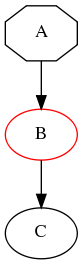
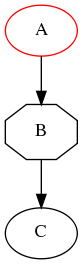
reStructuredText include doesn't seem to work on github

diff --git a/src/main/java/org/wintersleep/graphviz/ENGCAttributeList.java b/src/main/java/org/wintersleep/graphviz/ENGCAttributeList.java
@@ -36,7 +36,7 @@ public class ENGCAttributeList<T extends ENGCAttributeList> extends AttributeLis
     }
 
     public T setFontColor(Color fontColor) {
-        return setColor("fontcolor", fontColor);
+        return _setColor("fontcolor", fontColor);
     }
 
     public T setFontSize(double fontSize) {
@@ -54,6 +54,14 @@ public class ENGCAttributeList<T extends ENGCAttributeList> extends AttributeLis
         String str = table.xmlText(options);
 
         return setUnquoted("label", "<" + str + ">");
+    }
+
+    public T setColor(String color) {
+        return setUnquoted("color", color);
+    }
+
+    public T setColor(Color color) {
+        return _setColor("color", color);
     }
 
 }

diff --git a/src/test/java/org/wintersleep/graphviz/Example.java b/src/test/java/org/wintersleep/graphviz/Example.java
@@ -20,6 +20,7 @@ package org.wintersleep.graphviz;
  * #L%
  */
 
+import java.awt.*;
 import java.io.File;
 import java.io.IOException;
 
@@ -40,11 +41,11 @@ public class Example {
 
         // set attribute using a type-safe setter:
         a.addAttributeList()
-                .setShape("octagon");
+                .setColor(Color.RED);
 
         // set attribute using a generic string option:
         b.addAttributeList()
-                .setUnquoted("color", "red");
+                .setUnquoted("shape", "octagon");
 
         File outputDir = new File("/tmp");
         g.makeImageFile(outputDir, "png");

diff --git a/src/main/java/org/wintersleep/graphviz/AttributeList.java b/src/main/java/org/wintersleep/graphviz/AttributeList.java
@@ -74,8 +74,8 @@ class AttributeList<T extends AttributeList> {
         return setQuoted(key, sb.toString());
     }
 
-    protected T setColor(String attributeName, Color bgColor) {
-        String s = "#" + toHex(bgColor.getRed(), 2) + "%" + toHex(bgColor.getGreen(), 2) + "%" + toHex(bgColor.getBlue(), 2) + "%";
+    protected T _setColor(String attributeName, Color bgColor) {
+        String s = "#" + toHex(bgColor.getRed(), 2) + toHex(bgColor.getGreen(), 2) + toHex(bgColor.getBlue(), 2);
         return setQuoted(attributeName, s);
     }
 

diff --git a/src/main/java/org/wintersleep/graphviz/GraphAttributeList.java b/src/main/java/org/wintersleep/graphviz/GraphAttributeList.java
@@ -37,7 +37,7 @@ public class GraphAttributeList extends ENGCAttributeList<GraphAttributeList> {
     }
 
     public GraphAttributeList setBgColor(Color bgColor) {
-        return setColor("bgColor", bgColor);
+        return _setColor("bgColor", bgColor);
     }
 
     public GraphAttributeList setSize(String size) {

diff --git a/README.rst b/README.rst
@@ -8,16 +8,41 @@ This is a small Java library for creating
 Example
 =======
 
-This example code:
+This example code::
 
-.. include:: src/test/java/org/wintersleep/graphviz/Example.java
-   :literal:
-   :start-after: //// start-example
-   :end-before: //// end-example
+  DiGraph g = new DiGraph("Example");            
+                                                 
+  Node a = g.addNode("A");                       
+  Node b = g.addNode("B");                       
+  // add edge using node objects:                
+  g.addEdge(a, b);                               
+                                                 
+  g.addNode("C");                                
+  // add edge using node names:                  
+  g.addEdge("B", "C");                           
+                                                 
+  // set attribute using a type-safe setter:     
+  a.addAttributeList()                           
+          .setColor(Color.RED);                  
+                                                 
+  // set attribute using a generic string option:
+  b.addAttributeList()                           
+          .setUnquoted("shape", "octagon");      
+                                                 
+  File outputDir = new File("/tmp");             
+  g.makeImageFile(outputDir, "png");
 
 will produce the following graph:
 
 .. image:: examples/Example.png
+
+
+Warning
+=======
+
+There are no type-safe setters for each attribute in Graphviz, because
+there are just too many attributes. So the current list is just the
+list that I need. Pull requests to extend this are very welcome!
 
 
 License
